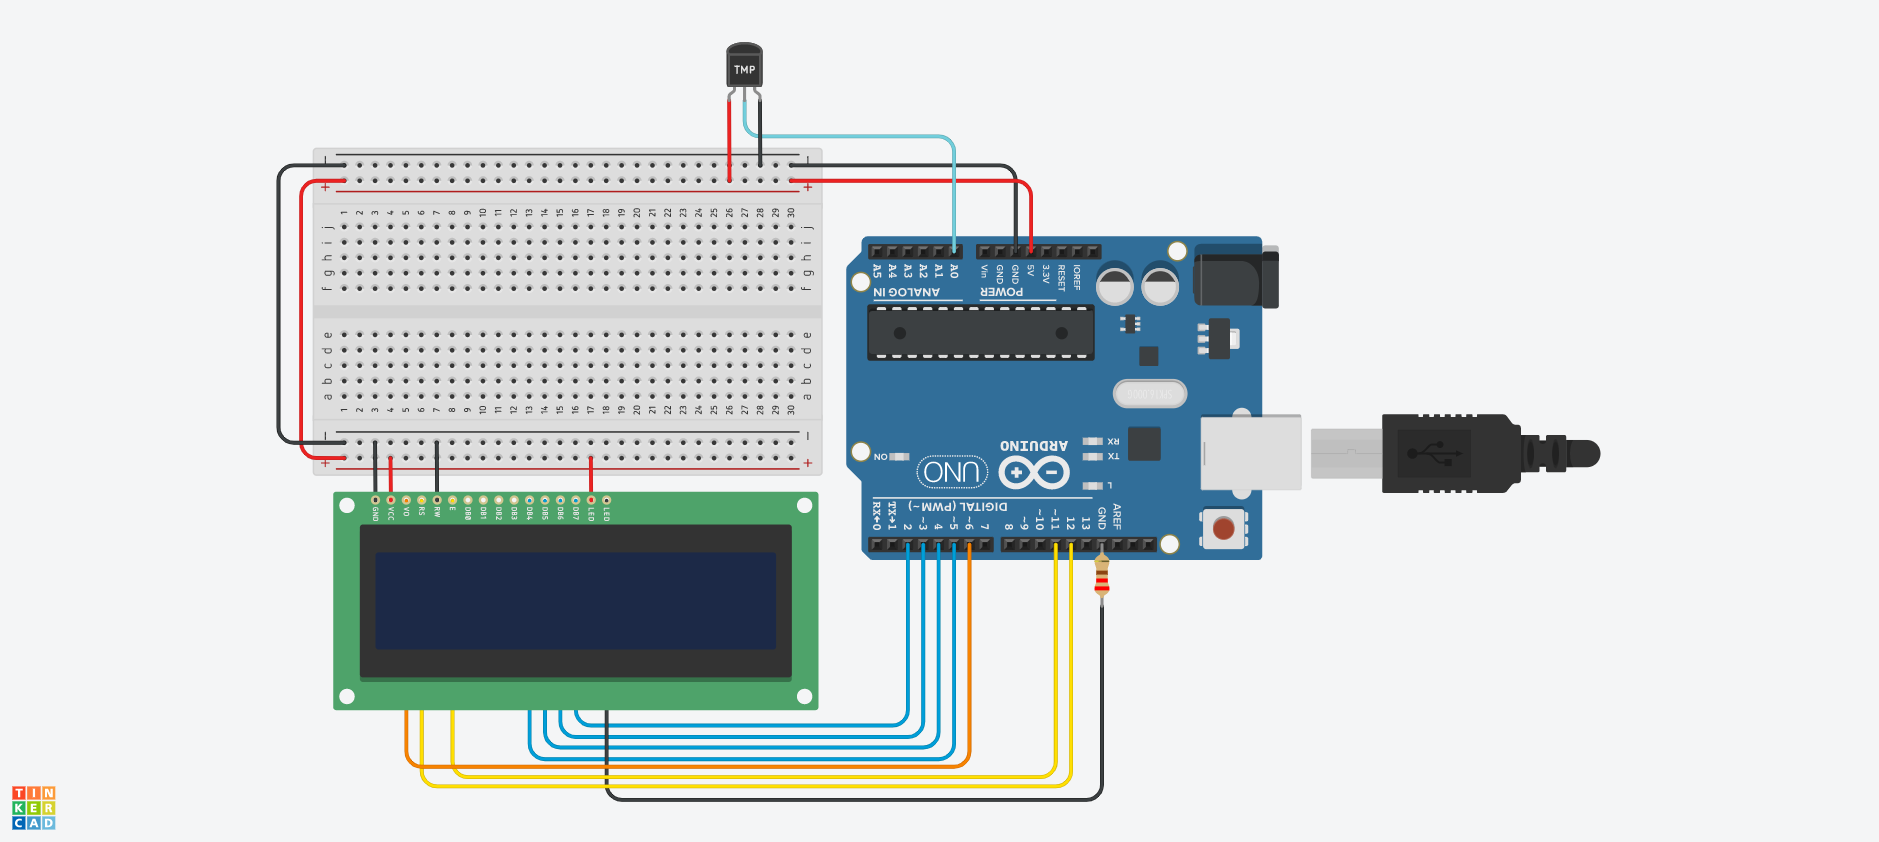
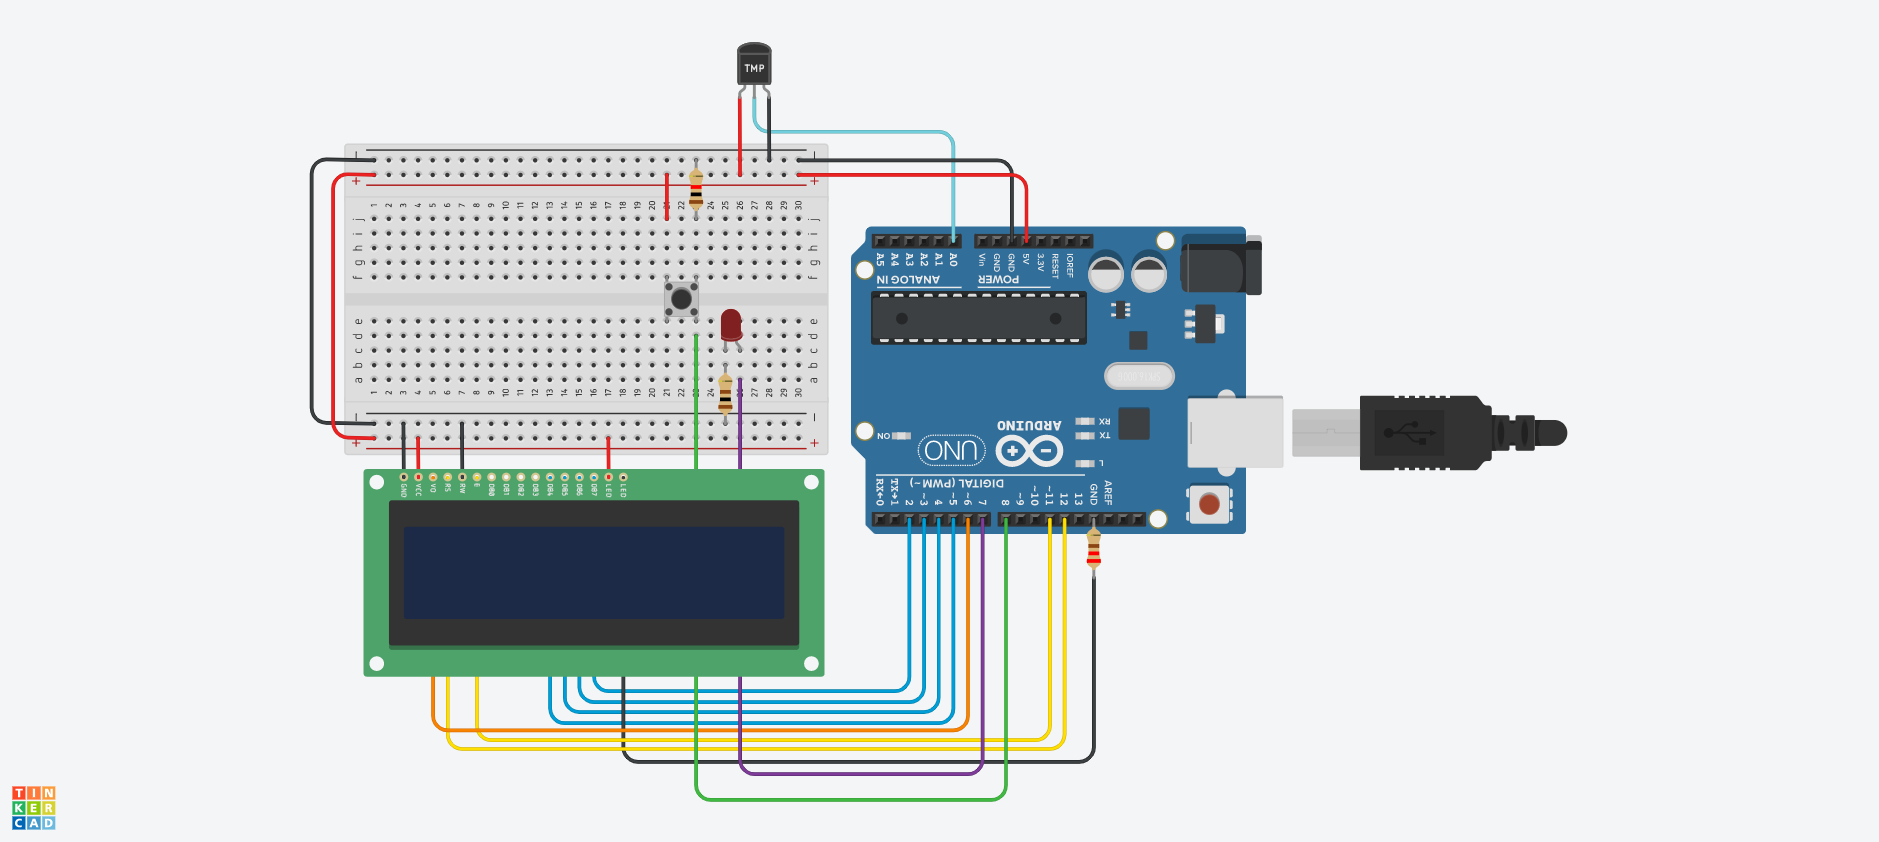
Planning day one: Flipped textFade function, added date/time preview, added button to circuit + button handle, changed temperature display, defined some constants

Changed region(s): [[0.1543, 0.0618, 0.8643, 0.9572]]

diff --git a/arduino_code.cpp b/arduino_code.cpp
@@ -1,57 +1,129 @@
 #include <LiquidCrystal.h>
 
+//
+// DEFINING
+//
+
+#define LCD_SIZE 16
+#define SCROLL_TEXT_SPEED 100
+
+//
+// LCD UTILS
+//
+
 LiquidCrystal lcd(12, 11, 5, 4, 3, 2);
 
 byte degree[] = {
-  B01110,
-  B01010,
-  B01110,
+  B11100,
+  B10100,
+  B11100,
   B00000,
-  B00000,
-  B00000,
-  B00000,
-  B00000
+  B00011,
+  B00100,
+  B00100,
+  B00011
 };
 
-void setup()
-{
+//
+// SETUP
+//
+
+void setup(){
+  pinMode(7,OUTPUT);
+  pinMode(8,INPUT);
   analogWrite(6,0);
+  analogWrite(A1,255);
   lcd.createChar(0, degree);
   lcd.begin(16, 2);
   Serial.begin(9600);
 }
 
-int pr = 0;
+//
+// LOOP
+//
 
-void loop()
-{
-  lcd.clear();
-  writeFadedText(0,"vice info na www.vassboskovice.cz");
-  writeTemp(12,1);
-  delay(100);
+void loop(){
+  writeFadedText(0,"www.vassboskovice.cz");
+  writeTimeDate(0,1);
+  writeTemp(13,1);
+  handleButton();
+}
+
+//
+// BUTTON
+//
+
+bool pressed = false;
+bool switched = false;
+
+void handleButton(){
+  int btn = digitalRead(8);
+  Serial.println(btn);
+  if (btn == 1 && !pressed){
+    pressed = true;
+    switchLED();
+  }
+  else if (btn == 0 && pressed) pressed = false;
+}
+
+void switchLED(){
+  switched = !switched;
+  digitalWrite(7,switched);
+}
+
+//
+// TEMP
+//
+
+void writeTemp(int x,int y){
+  int temp = trackTemp();
+  temp = temp < 100 ? temp : 99;
+  temp = temp > -10 ? temp : -9;
+  lcd.setCursor(x,y);
+  lcd.print((String(temp).length() == 1 ? " " : "")+String(temp));
+  lcd.write(byte(0));
 }
 
 int trackTemp(){
   return (int) map(analogRead(A0),20,358,-40,125);
 }
 
-void writeTemp(int x,int y){
-  int temp = trackTemp();
-  lcd.setCursor(temp < 100 ? 12 : 11, 1);
-  lcd.print(""+String(temp));
-  lcd.write(byte(0));
-  lcd.print("C");
+//
+// DATE
+//
+
+void writeTimeDate(int x, int y){
+  lcd.setCursor(x,y);
+  lcd.print("30.03.12:05");
 }
 
+//
+// FADED TEXT
+//
+
+float lastChanged = 0;
+int pr = 0;
+
 void writeFadedText(int y,String text){
-  if (pr <= text.length()){
-  	lcd.setCursor(0,y);
-    lcd.print(text.substring(text.length()-pr));
+  if (millis() >= lastChanged + SCROLL_TEXT_SPEED){
+    lastChanged = millis();
+    String out = repeat(" ",LCD_SIZE);
+    if (pr <= LCD_SIZE)
+      out = repeat(" ",LCD_SIZE-pr)+text.substring(0,pr);
+    else if (pr <= text.length())
+      out = text.substring(pr-LCD_SIZE,pr);
+    else if (pr <= text.length()+LCD_SIZE) 
+      out = text.substring(pr-LCD_SIZE)+repeat(" ",LCD_SIZE-text.substring(pr-LCD_SIZE).length());
+    else pr = 0;
+    lcd.setCursor(0,y);
+    lcd.print(out);
+    pr++;
   }
-  else if (pr < text.length()+16){
-  	lcd.setCursor(floor(pr-text.length()),y);
-    lcd.print(text.substring(0,16));
-  }
-  else pr = 0;
-  pr++;
+}
+
+String repeat(String s, int times){
+  int c = times;
+  String r = "";
+  while (c--) r+= s;
+  return r;
 }
